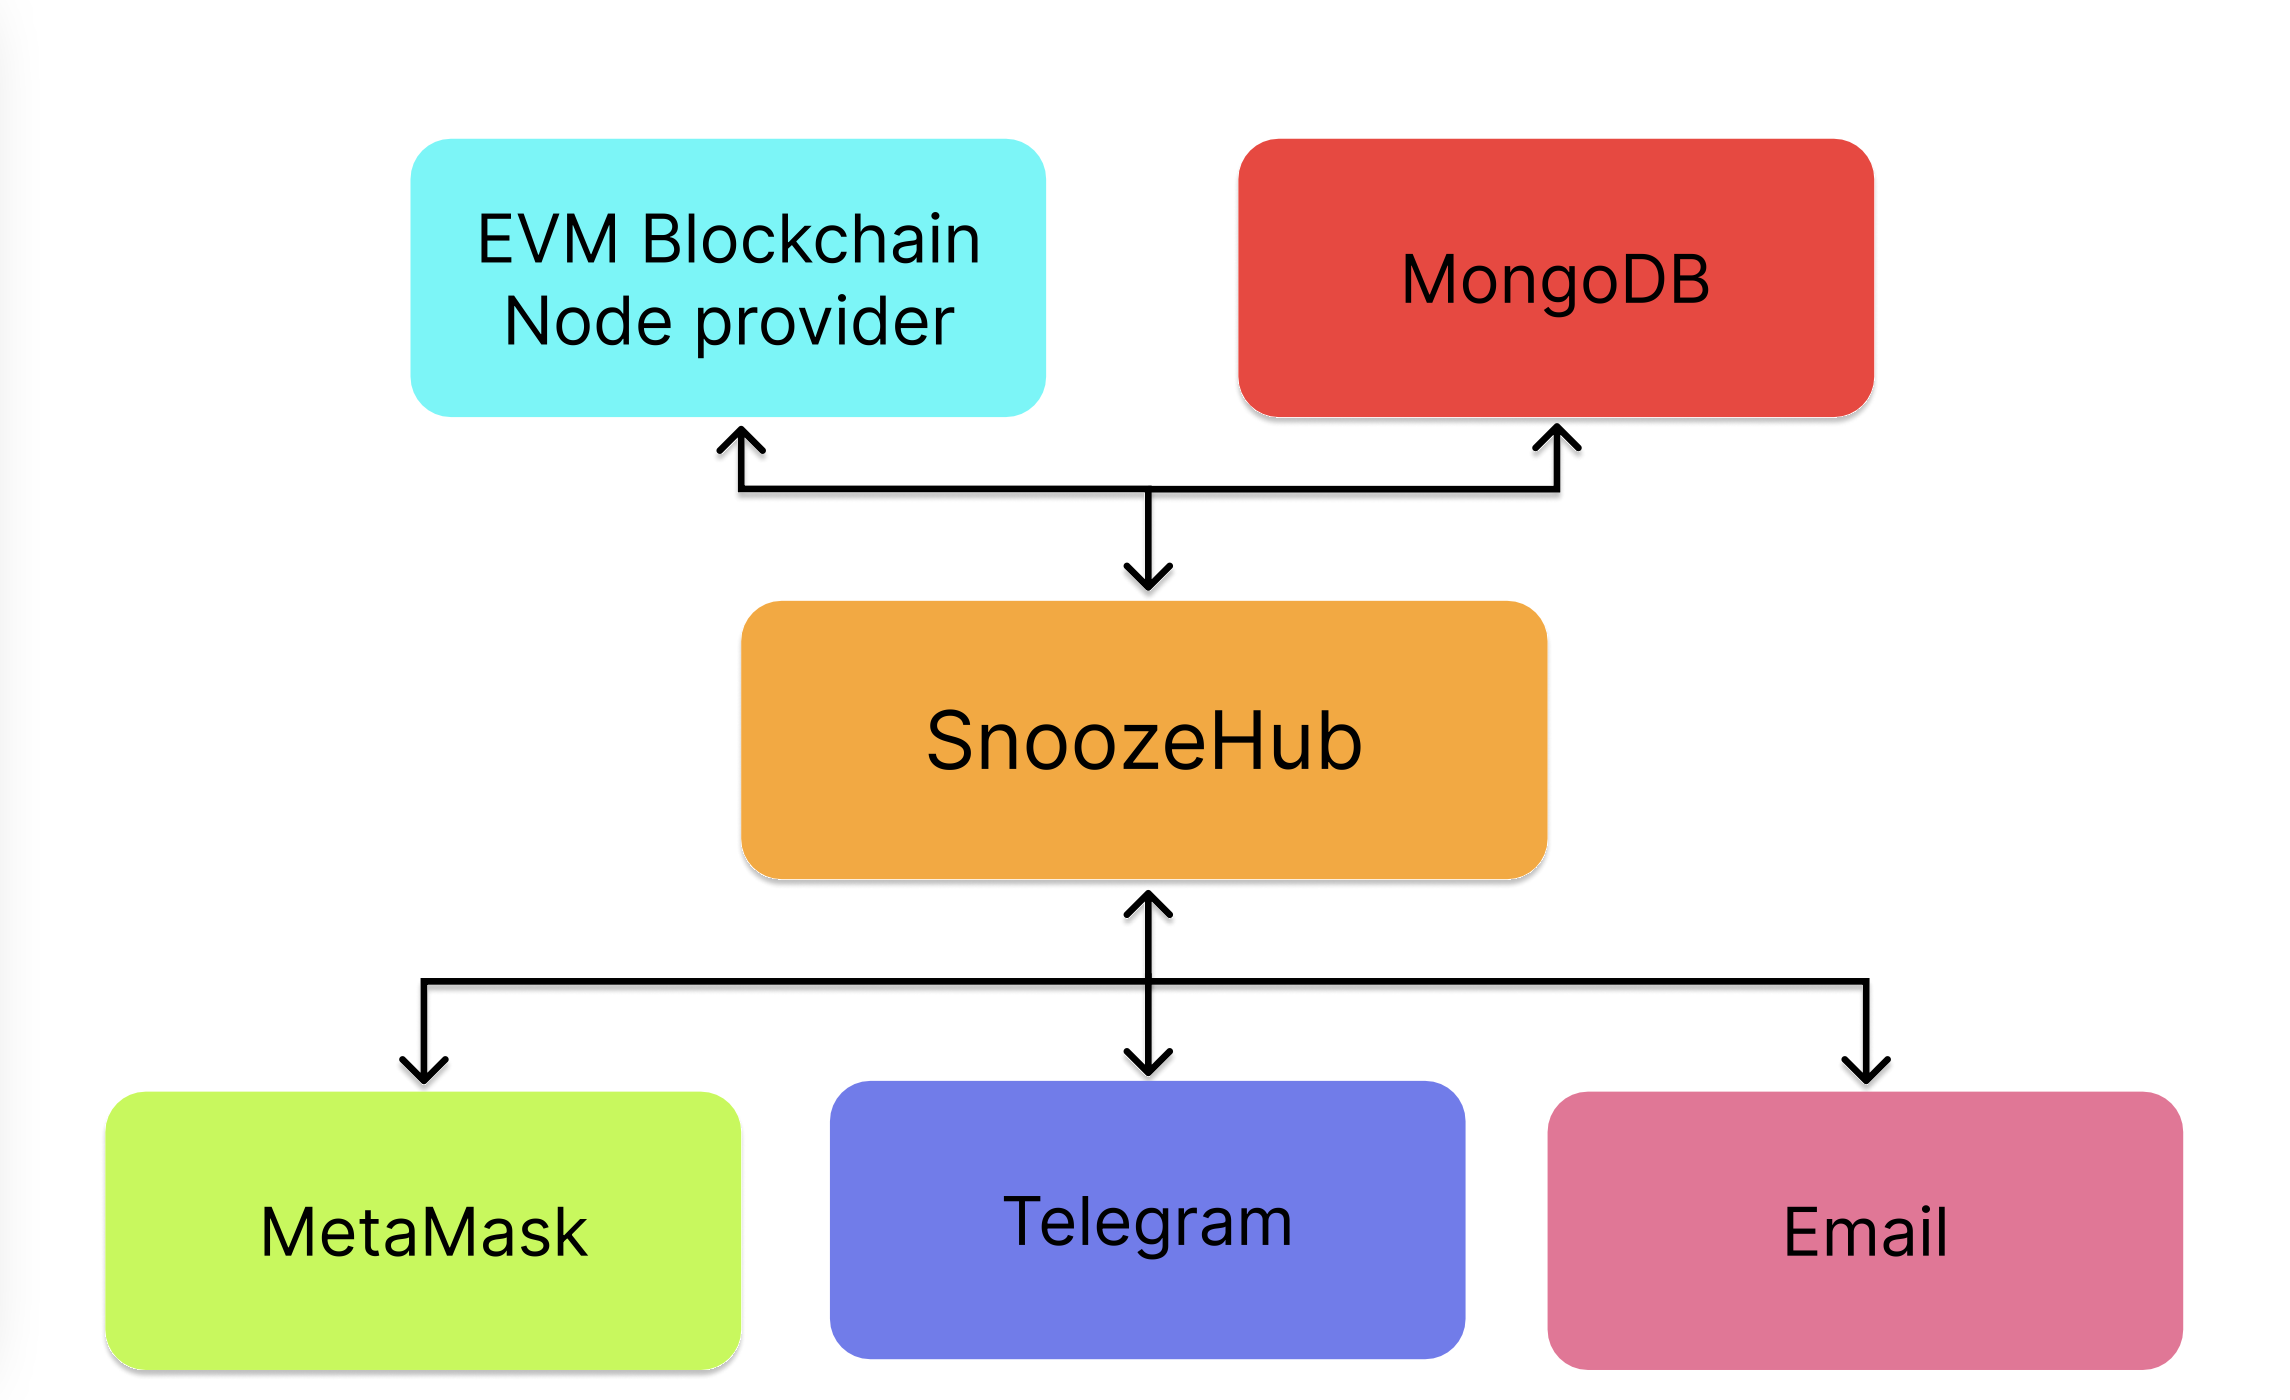
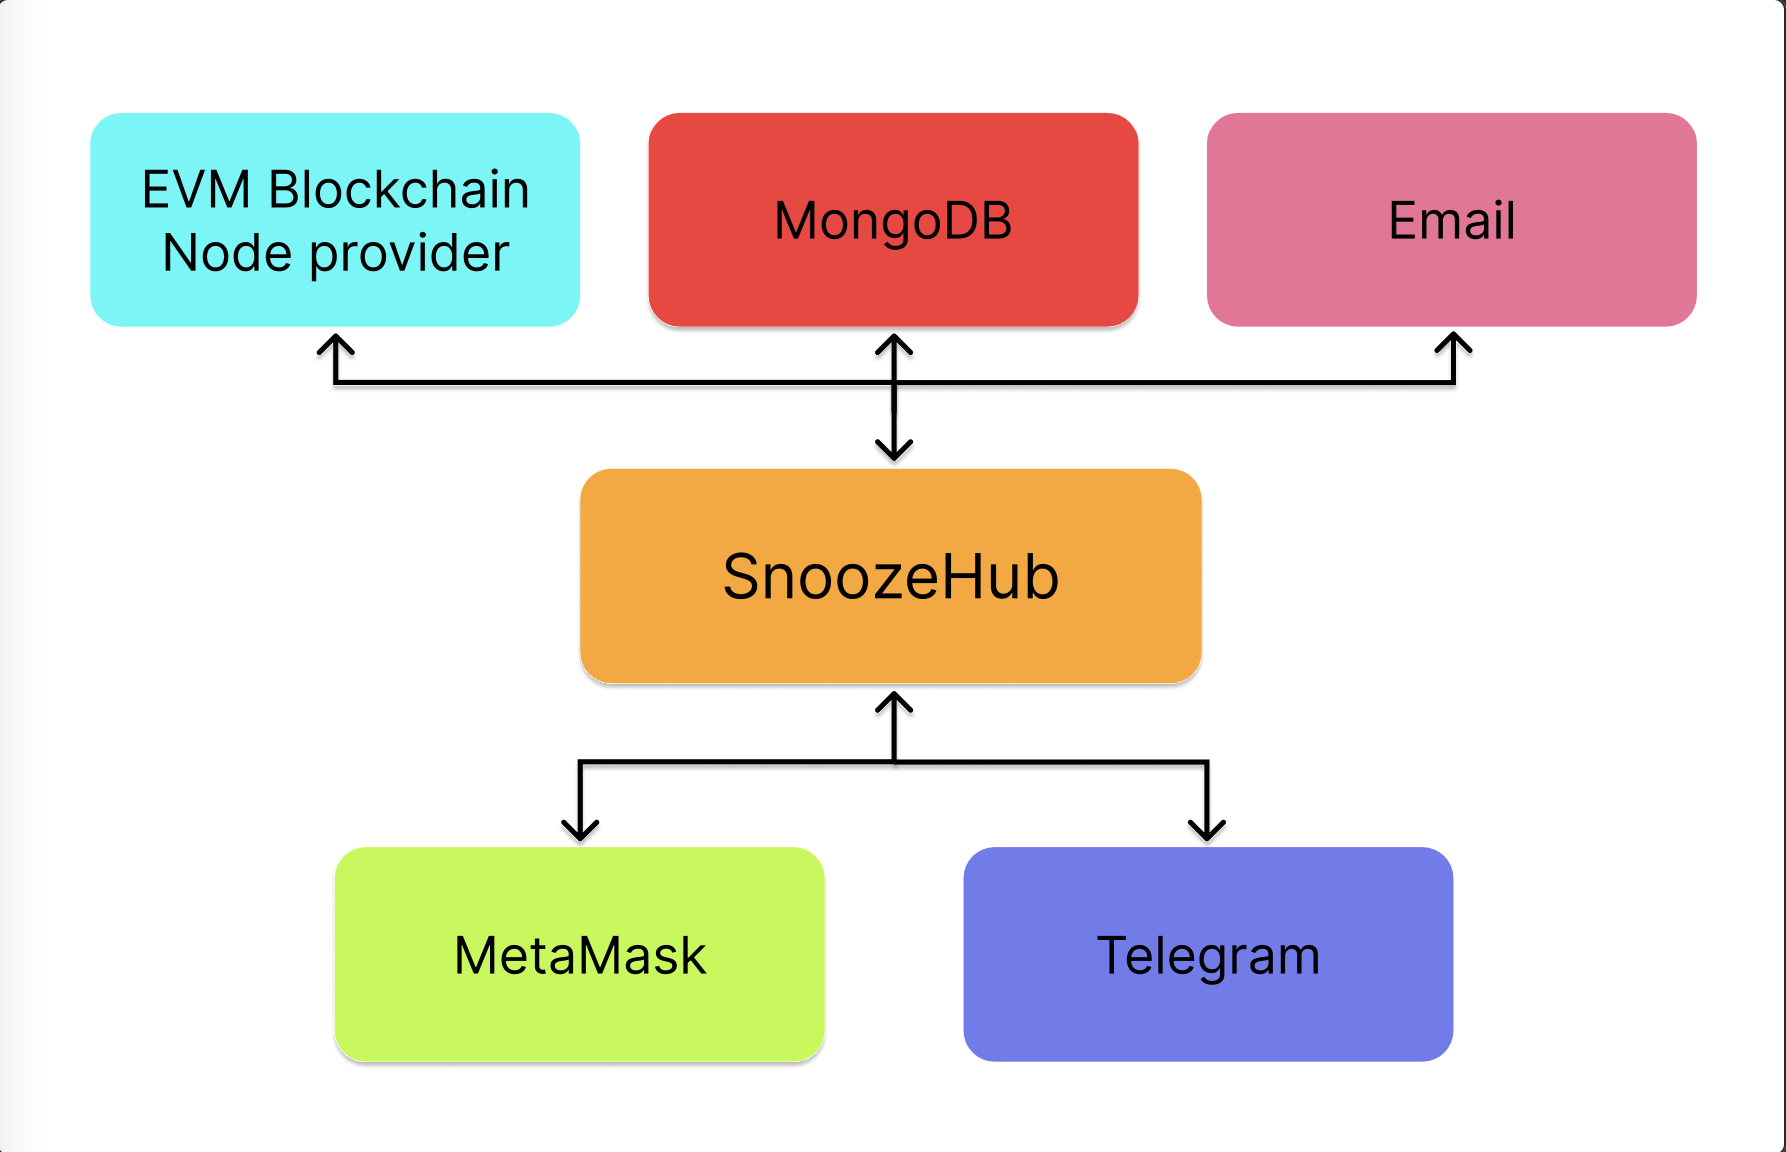
Fixed typos and updated backend graph

diff --git a/profile/README.md b/profile/README.md
@@ -40,7 +40,7 @@ Chi ospita viene chiamato _host_, chi viene ospitato _guest_.
 
 - RF1.4: Autenticazione
 
-  Il sistema consentirà agli utenti, già registrati, di autenticarsi tramite Metamask. Questa operazione sarà facoltativa durante la navigazione nel sistema, ma diventerà obligatoria alla prenotazione di un posto letto.
+  Il sistema consentirà agli utenti, già registrati, di autenticarsi tramite Metamask. Questa operazione sarà facoltativa durante la navigazione nel sistema, ma diventerà obbligatoria alla prenotazione di un posto letto.
 
 - RF1.5: RESTs
 
@@ -79,7 +79,7 @@ Chi ospita viene chiamato _host_, chi viene ospitato _guest_.
 
 - RF2.4: Prenotare un posto letto
 
-  Per poter prenotare un posto letto, l'utente dovrà effettuare l'auteticazione, specificare la data/e e successivamente scambiare un REST.
+  Per poter prenotare un posto letto, l'utente dovrà effettuare l'autenticazione, specificare la data/e e successivamente scambiare un REST.
 
 - RF2.5: Visualizzare le proprie prenotazioni
 
@@ -136,7 +136,7 @@ Chi ospita viene chiamato _host_, chi viene ospitato _guest_.
 
 - RF3.7 Modificare un annuncio
 
-  Il sistema consentirà agli utenti di modificare le informazioni riguradanti gli annunci inseriti.
+  Il sistema consentirà agli utenti di modificare le informazioni riguardanti gli annunci inseriti.
 
 - RF3.8 Eliminare un annuncio
 
@@ -190,7 +190,7 @@ Chi ospita viene chiamato _host_, chi viene ospitato _guest_.
 
 - RNF9: Affidabilità
 
-  Esendo il token REST decentralizzato, garantirà agli utenti una maggiore affidabilità in quanto ogni transazione di REST sarà pubblicamente verificabile.
+  Essendo il token REST decentralizzato, garantirà agli utenti una maggiore affidabilità in quanto ogni transazione di REST sarà pubblicamente verificabile.
 
 - RNF10: Prevenzione truffe
 
@@ -279,6 +279,6 @@ Di seguito sono riportati dei mock-up delle schermate del sito. Sono rappresenta
 
 # Mockup Back-end
 
-Di seguito è presente un modello del Back-end del sito.
+Di seguito è presente un modello del Back-end del sito. Esso si interfaccerà direttamente con il database MongoDB, il Node provider della Blockchain EVM e le api per mandare mail, mentre si interfaccerà attraverso il frontend con Telegram e MetaMask.
 
 <img src="sistema.png" width="400"/>
